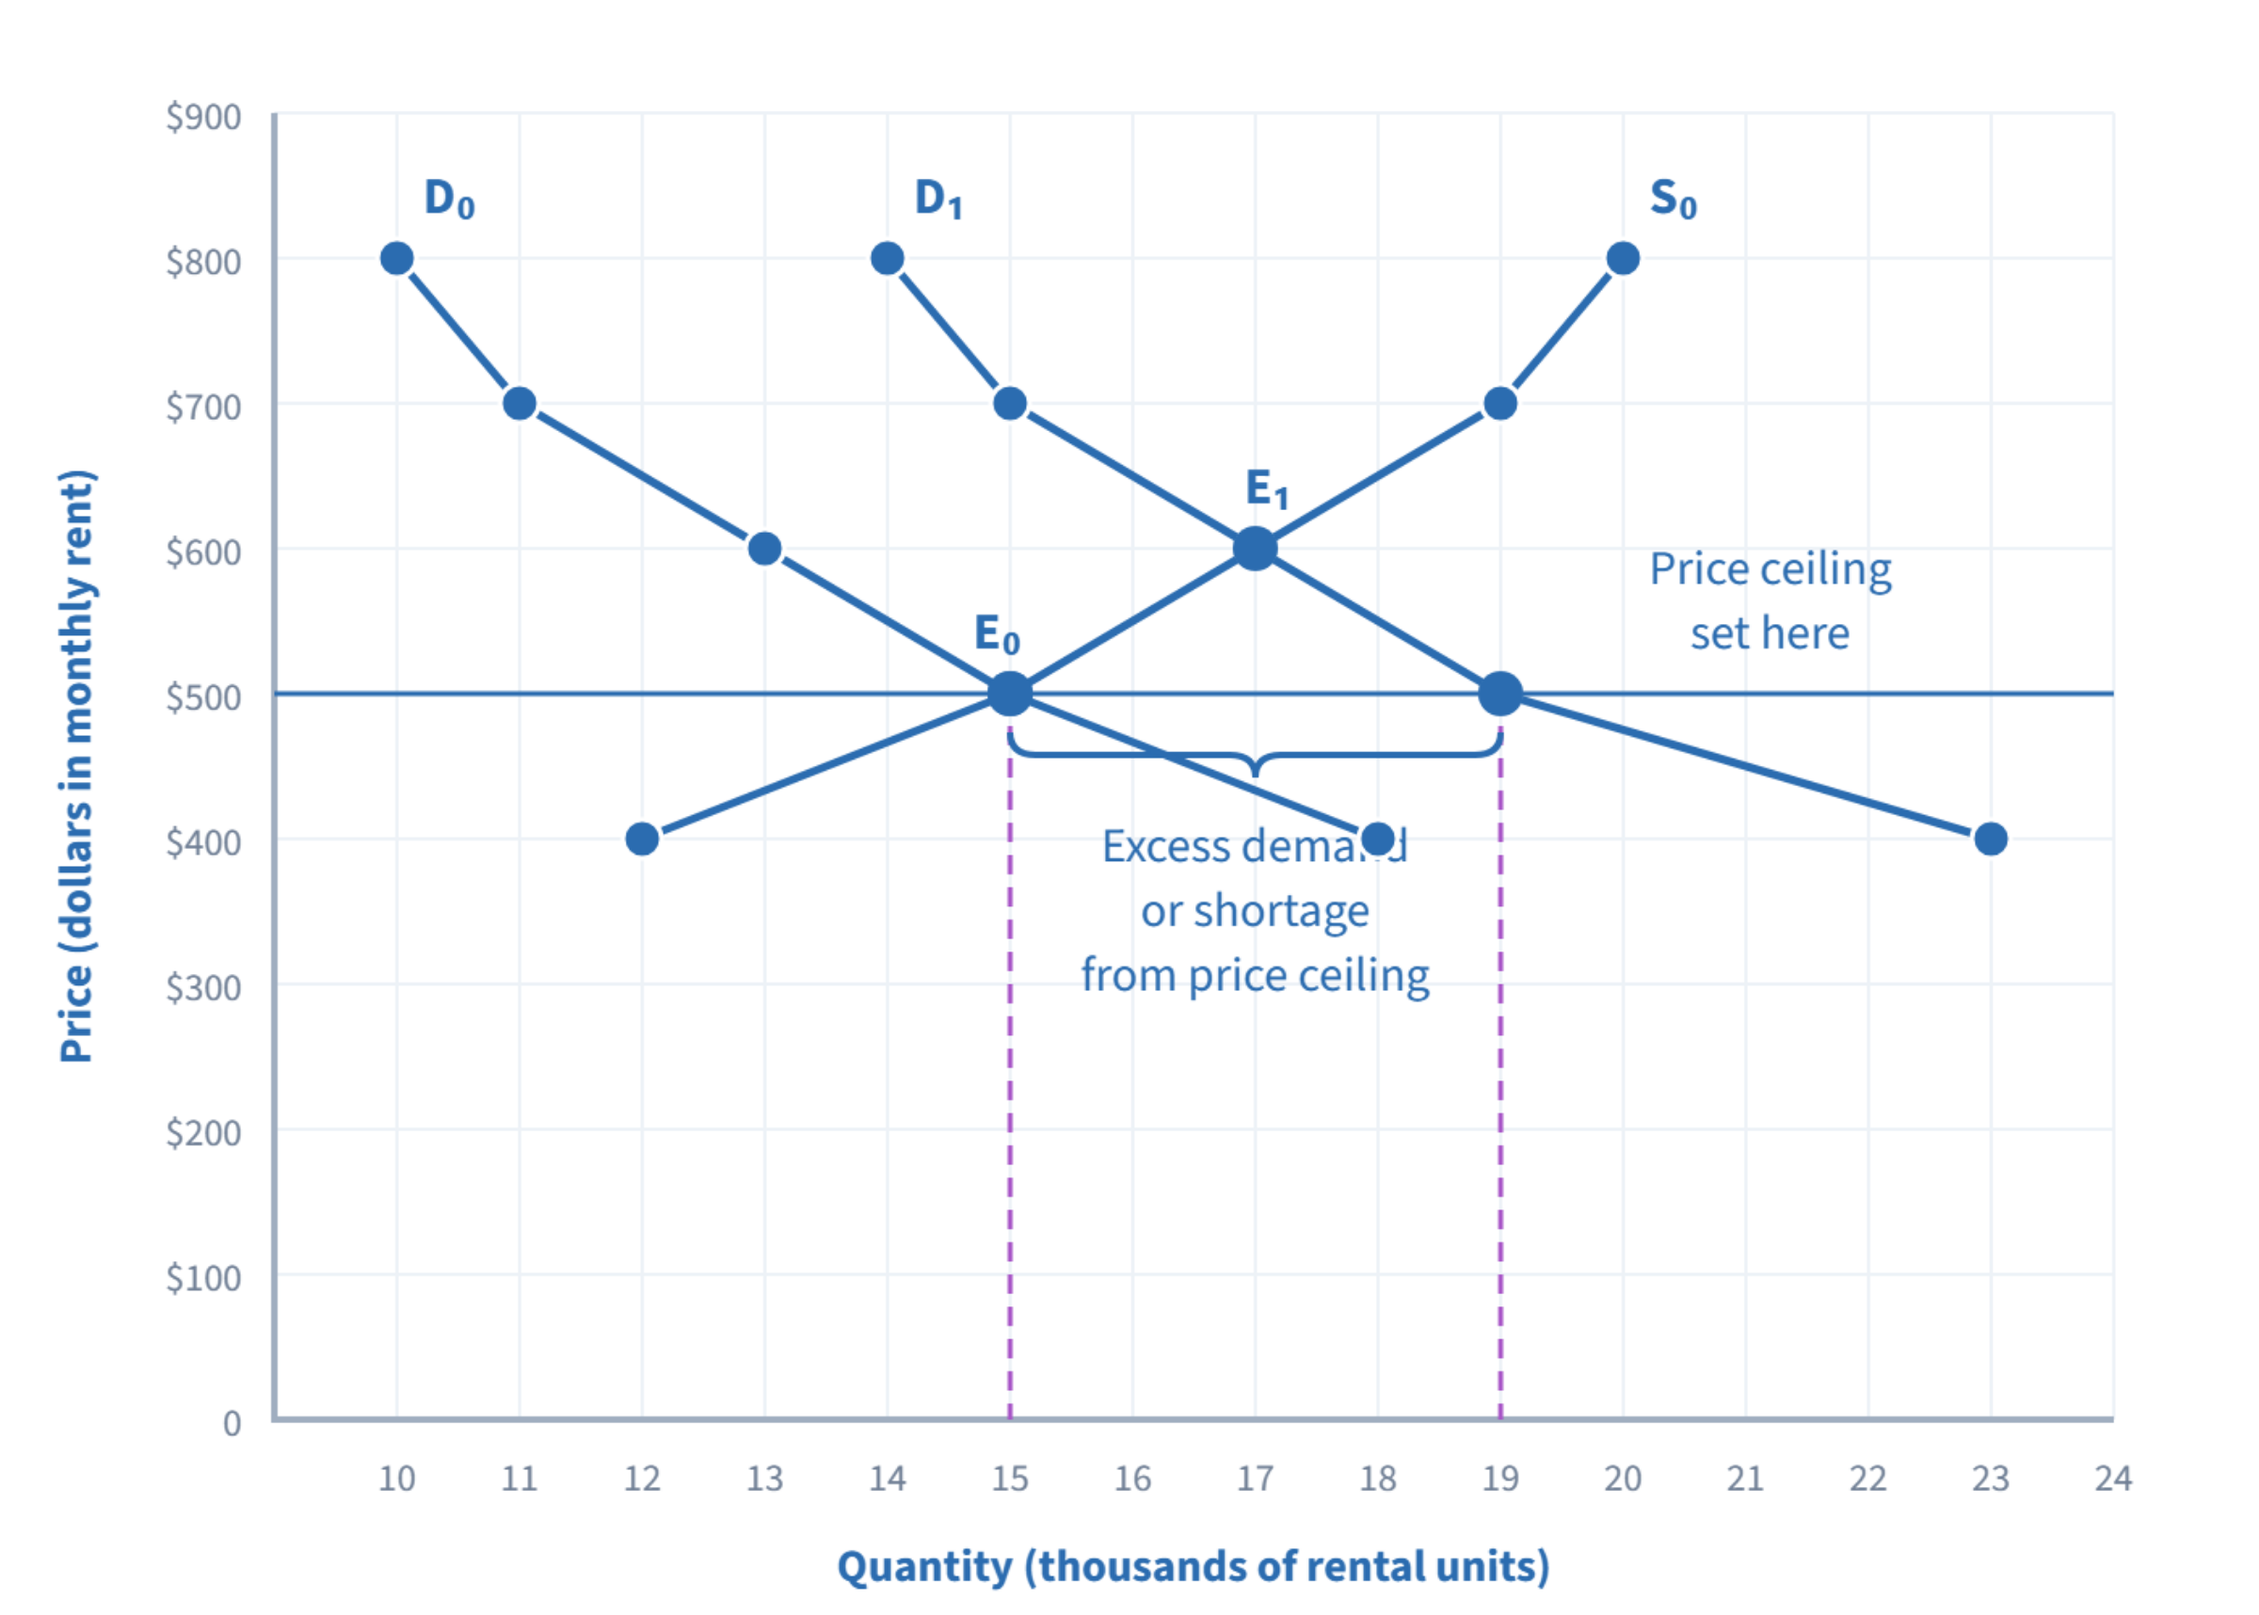
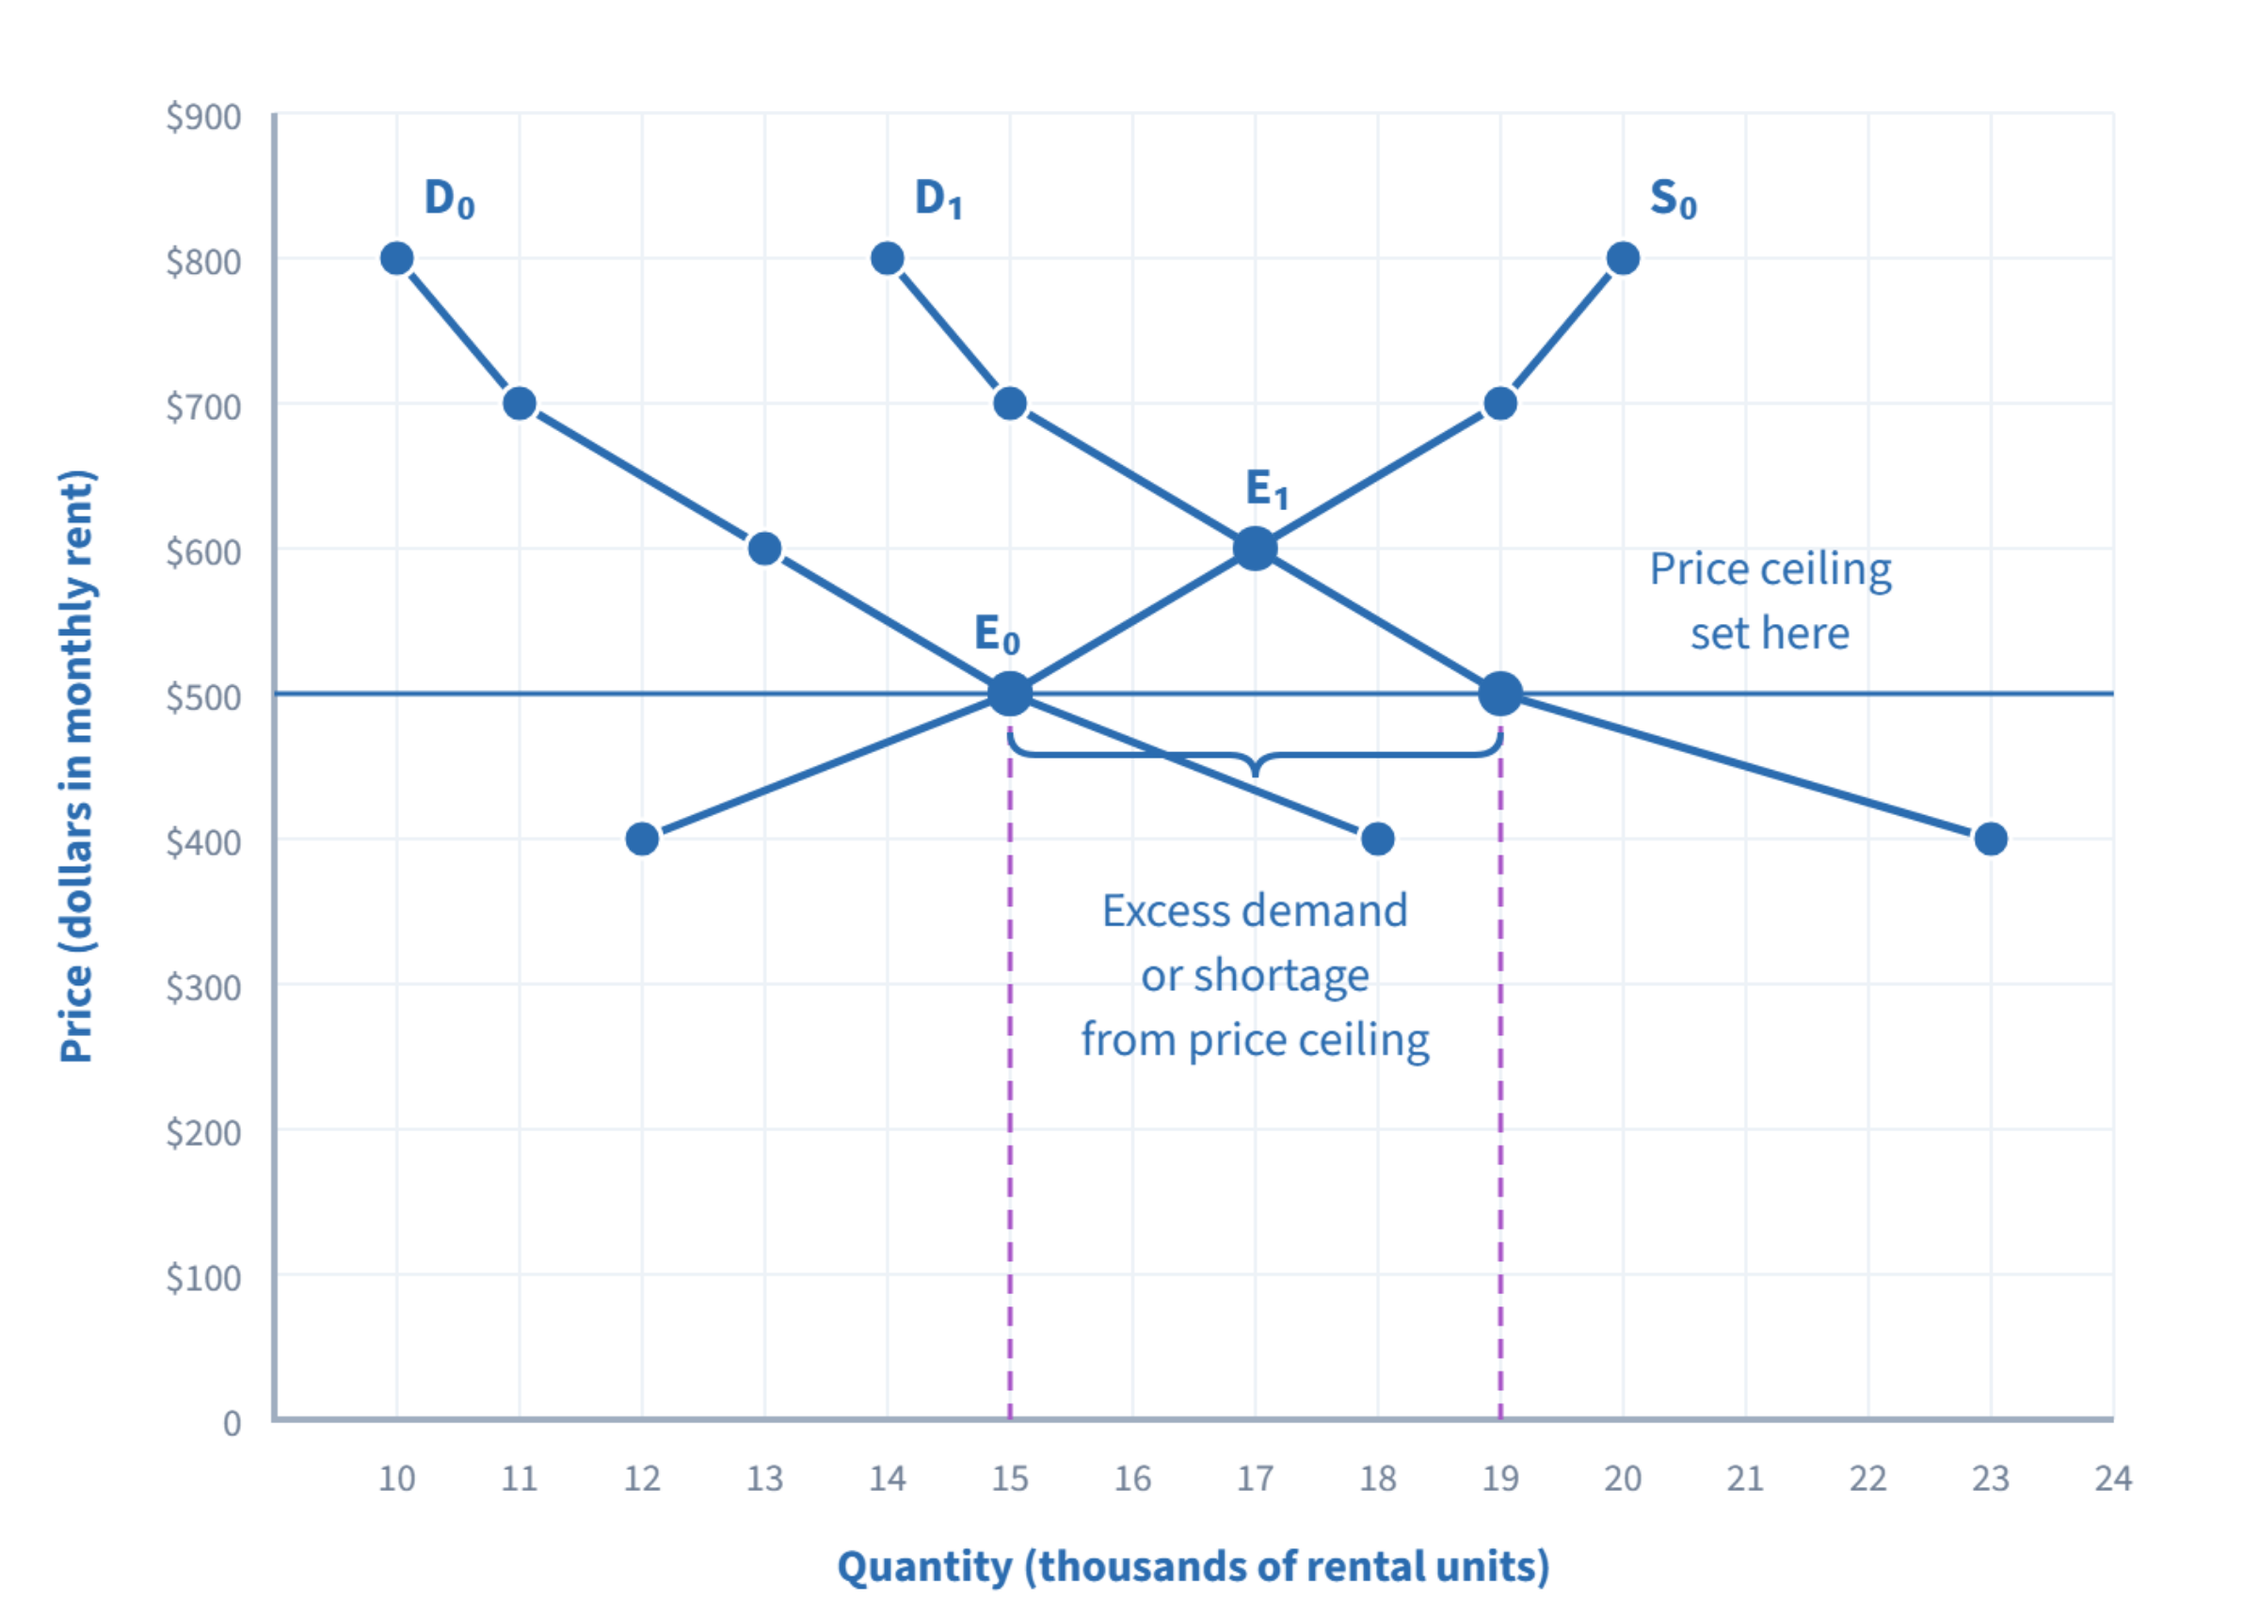
Rebuild book output

Changed region(s): [[0.4688, 0.4942, 0.6562, 0.6486]]

diff --git a/HTML_open_principles_of_microeconomics/apps/price_ceiling_textbook.html b/HTML_open_principles_of_microeconomics/apps/price_ceiling_textbook.html
@@ -156,7 +156,7 @@ new EconViz({
         if (vis('show_droplines')) [qs, qd].forEach(q => g.dashed(tCX(q), tCY(pc), tCX(q), tCY(yMin), '#a855c7', 1.5));
         if (vis('show_brace') && shortage > 0.2) {
           g.brace(tCX(qs), tCY(pc) + 12 * S, tCX(qd), tCY(pc) + 12 * S, { depth: 14 * S });
-          g.label('Excess demand\nor shortage\nfrom price ceiling', (tCX(qs) + tCX(qd)) / 2, tCY(pc) + 52 * S,
+          g.label('Excess demand\nor shortage\nfrom price ceiling', (tCX(qs) + tCX(qd)) / 2, tCY(pc) + 72 * S,
             { key:'an.shortage', font:`${15 * S}px ${g.font}`, color:'#2b6cb0', align:'center', lineH:20 * S });
         }
       }
